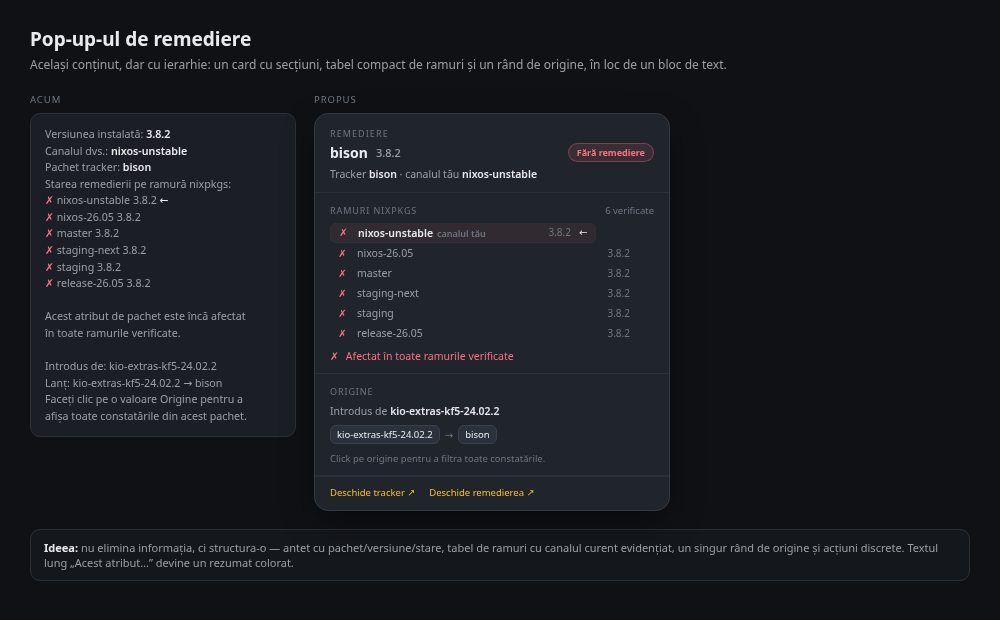
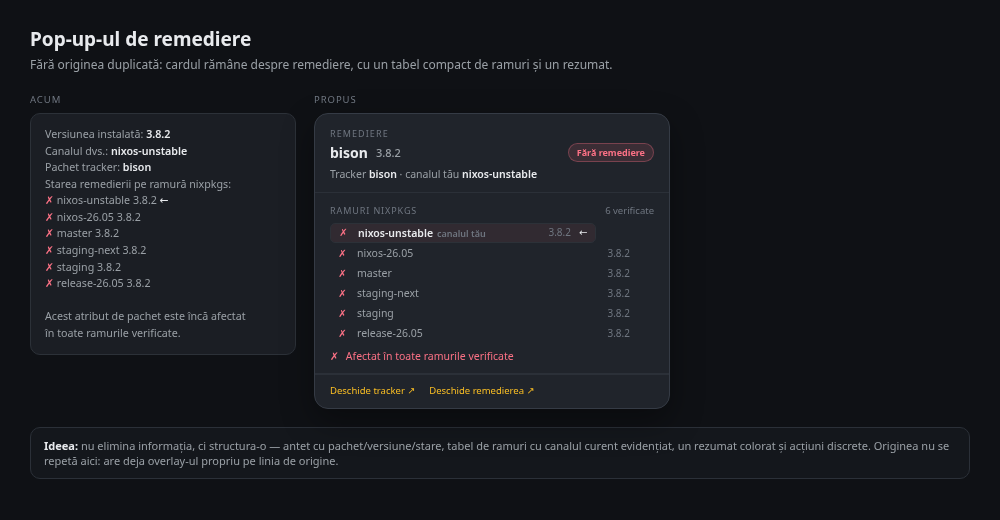
ui: drop the origin chain from the fix tooltip
The origin line already has its own 1.5 s overlay with the full trails and filtering hint. Remove the duplicate origin text from the fix-pill tooltip and update the fix-popover proposal accordingly.

diff --git a/designs/fix-popover.html b/designs/fix-popover.html
@@ -81,7 +81,7 @@
 </head>
 <body>
 <h1>Pop-up-ul de remediere</h1>
-<p class="lede">Același conținut, dar cu ierarhie: un card cu secțiuni, tabel compact de ramuri și un rând de origine, în loc de un bloc de text.</p>
+<p class="lede">Fără originea duplicată: cardul rămâne despre remediere, cu un tabel compact de ramuri și un rezumat.</p>
 
 <div class="grid">
   <div>
@@ -99,11 +99,7 @@ Starea remedierii pe ramură nixpkgs:
 
 Acest atribut de pachet este încă afectat
 în toate ramurile verificate.
-
-Introdus de: kio-extras-kf5-24.02.2
-Lanț: kio-extras-kf5-24.02.2 → bison
-Faceți clic pe o valoare Origine pentru a
-afișa toate constatările din acest pachet.</div>
+</div>
   </div>
 
   <div>
@@ -126,18 +122,11 @@ afișa toate constatările din acest pachet.</div>
         <div class="summary"><span class="icon">✗</span> Afectat în toate ramurile verificate</div>
       </div>
 
-      <div class="section">
-        <div class="section-head">Origine</div>
-        <div class="origin-line">Introdus de <b>kio-extras-kf5-24.02.2</b></div>
-        <div class="chain"><span class="chip">kio-extras-kf5-24.02.2</span><span class="arr">→</span><span class="chip">bison</span></div>
-        <div class="hint">Click pe origine pentru a filtra toate constatările.</div>
-      </div>
-
       <div class="footer"><span class="link">Deschide tracker ↗</span><span class="link">Deschide remedierea ↗</span></div>
     </div>
   </div>
 </div>
 
-<div class="caption"><b>Ideea:</b> nu elimina informația, ci structura-o — antet cu pachet/versiune/stare, tabel de ramuri cu canalul curent evidențiat, un singur rând de origine și acțiuni discrete. Textul lung „Acest atribut…” devine un rezumat colorat.</div>
+<div class="caption"><b>Ideea:</b> nu elimina informația, ci structura-o — antet cu pachet/versiune/stare, tabel de ramuri cu canalul curent evidențiat, un rezumat colorat și acțiuni discrete. Originea nu se repetă aici: are deja overlay-ul propriu pe linia de origine.</div>
 </body>
 </html>

diff --git a/contents/ui/components/Labels.qml b/contents/ui/components/Labels.qml
@@ -453,13 +453,8 @@ QtObject {
     function fixTooltip(row, systemChannel) {
         const fix = row.fix;
         const lines = fixTooltipLines(fix, systemChannel);
-        const origin = originTooltip(row.origin);
         if (lines.length === 0) {
-            const fallback = masterTooltip(row, systemChannel);
-            if (origin.length === 0) {
-                return fallback;
-            }
-            return fallback.length > 0 ? fallback + "\n\n" + origin : origin;
+            return masterTooltip(row, systemChannel);
         }
         const text = [];
         if (row.version) {
@@ -468,12 +463,7 @@ QtObject {
         if (systemChannel) {
             text.push(i18n("Your channel: %1", systemChannel));
         }
-        const result = text.concat(lines);
-        if (origin.length > 0) {
-            result.push("");
-            result.push(origin);
-        }
-        return result.join("\n");
+        return text.concat(lines).join("\n");
     }
 
     function relativeTime(ageSeconds) {

diff --git a/designs/README.md b/designs/README.md
@@ -205,8 +205,9 @@ installed).
 structured card for the fix-pill tooltip: package/version/state header, a
 compact branch table with the current channel highlighted, a one-line
 affected/fixed summary, an origin row with chain chips, and a small action
-footer. The current tooltip is one plain-text block that mixes all of these.
+footer. The origin is deliberately **not** repeated in this card: it already has its
+own 1.5 s overlay on the origin line.
 
 **Not implemented yet** — it would become a `FixPopover.qml` rendered in the
-same in-applet overlay style as the origin popover, keeping the branch rows and
-origin interactive without relying on a separate tooltip window.
+same in-applet overlay style as the origin popover, keeping the branch rows
+interactive without relying on a separate tooltip window.

diff --git a/CHANGELOG.md b/CHANGELOG.md
@@ -144,6 +144,8 @@ and this project adheres to [Semantic Versioning](https://semver.org/spec/v2.0.0
 - Restored the list/group icon and normal toolbar font size on the grouping
   menu, and styled it as a flat button with a chevron.
 
+- The fix tooltip no longer repeats the dependency-origin chain; the origin
+  line's own overlay is the single place for it.
 - The CVE and Package headers now carry sortable **Nixpkgs** and **Origin**
   sub-labels next to them, so the source and dependency-origin fields can be
   sorted without widening the table.
